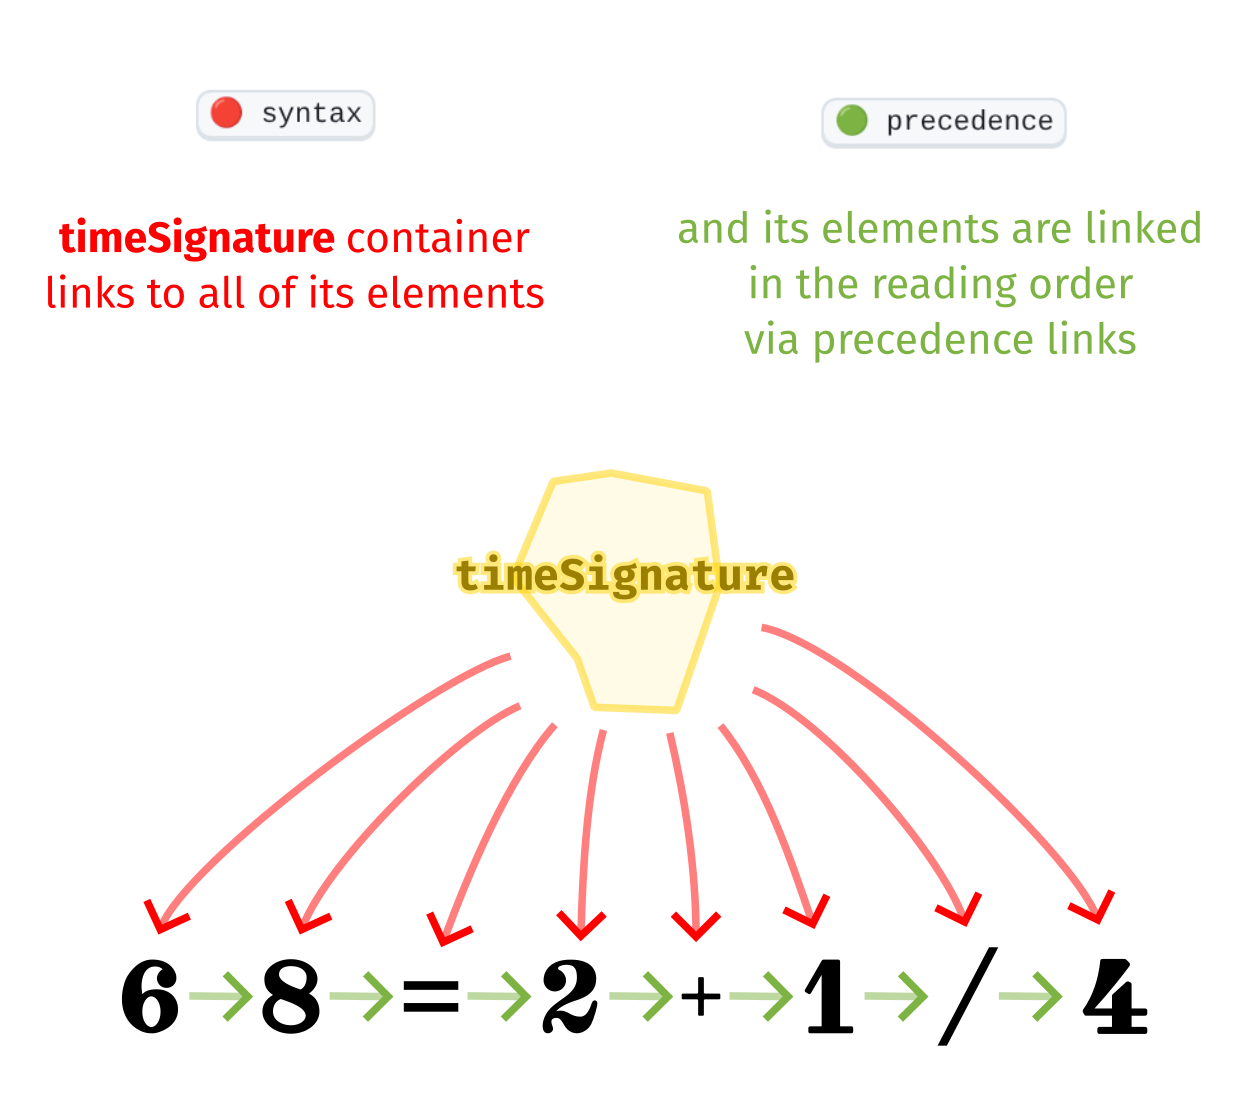
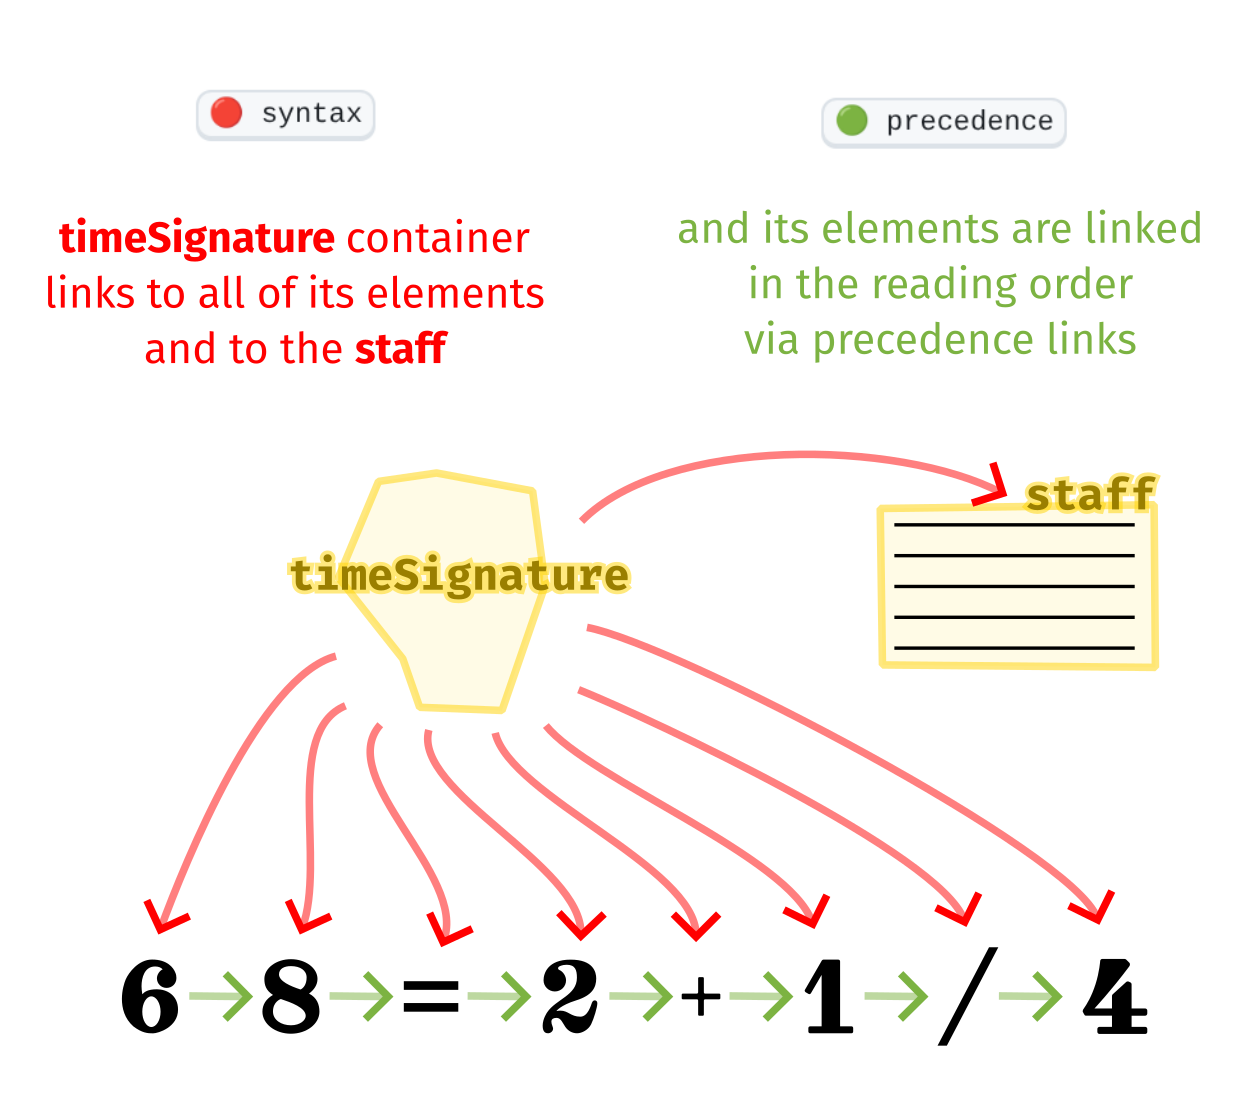
AI: keySignature syntax

Changed region(s): [[0.1243, 0.3975, 0.9323, 0.8255], [0.1243, 0.3058, 0.3729, 0.3363], [0.2175, 0.5809, 0.2797, 0.6421]]

diff --git a/docs/annotation-instructions/annotation-instructions.md b/docs/annotation-instructions/annotation-instructions.md
@@ -1112,17 +1112,36 @@ While the G and F clefs almost always sit on the same line, C clef is often plac
 
 ## `keySignature`
 
-- A **container (parent) symbol** representing the entire key signature.
-- Annotate it as a **convex hull (rough mask)** covering all the individual accidentals.
-- <kbd>🔴 syntax</kbd> links lead from `keySignature` to all accidentals within it
-
-<!--
-TODO: digram 0, a digram syntaxu
--->
+*(`keySignature` is not part of SMuFL, because it is a container class)*
 
 <p>
-  <img src="./img/key-signature-1.png" alt="keySignature Example" width="300"/>
+  <img src="./img/keySignature-0.png" height="200"/>
+  <img src="./img/keySignature-syntax.png" height="200"/>
 </p>
+
+- A **container object** representing the entire key signature.
+- Annotate it as a **convex hull (rough mask)** covering all the individual accidentals.
+- <kbd>🔴 syntax</kbd> links lead from `keySignature` to all accidentals within it.
+- Additional <kbd>🔴 syntax</kbd> link leads to the `staff`.
+- Individual accidentals are NOT linked to staff lines / staff spaces.
+
+<p>
+  <img src="./img/keySignature-1.png" height="150"/>
+  <img src="./img/keySignature-2.png" height="150"/>
+</p>
+
+<details>
+  <summary>🤔 Why not link accidentals to stafflines?</summary>
+
+  Accidentals are often not positioned precisely, insted their count is what matters. Moreover, even the MusicXML standard does not support key signature accidental positioning, it only counts them. Therefore we also ignore their exact position.
+</details>
+
+<details>
+  <summary>🔗 Example documents</summary>
+
+  - https://ufallab.ms.mff.cuni.cz/~mayer/mung-studio/#/simple-backend/3bb9e322-bc61-4307-856b-6f8fb1a640df_2d5f652c-1df0-474c-ae23-3fb699afe808
+  - https://ufallab.ms.mff.cuni.cz/~mayer/mung-studio/#/simple-backend/48788ad8-de8b-4d01-ace1-4adffc7ed0ad_ea864792-7020-47e7-bb7b-3a48477202cf
+</details>
 
 ---
 
@@ -1384,7 +1403,8 @@ Used to communicate the semantic grouping of beats within a measure. The example
 
 - A **container class** for grouping all elements that form a time signature (see the elements listed above).
 - Create one container for the whole time signature.
-- There is one <kbd>🔴 syntax</kbd> going from the container to each of the elements making up the time signature (numbers, slashes, plus, equals).
+- There is one <kbd>🔴 syntax</kbd> link going from the container to each of the elements making up the time signature (numbers, slashes, plus, equals).
+- There is one additional <kbd>🔴 syntax</kbd> link going to the `staff`.
 - The elements inside the time signature are linked together via <kbd>🟢 precedence</kbd> links in the order they are read (left-to-right, top-to-bottom). See the precedence diagrams above.
 
 This is what the syntax and precerence graph hierarchy for the time signature container looks like:
@@ -3486,6 +3506,7 @@ indicating the continuation of the trill.
 - Annotate with **precise mask**.
 - Add <kbd>🔴 syntax</kbd> links to leger lines and accidentals.
 - Link it from the preceding notehead or rest via <kbd>🟢 precedence</kbd> links, as if it was a regular notehead.
+- Add <kbd>🔴 syntax</kbd> links to the `staff` and `staffLine` or `staffSpace`, just like noteheads have.
 
 <p>
   <img src="./img/custos-2.png" height="200"/>
